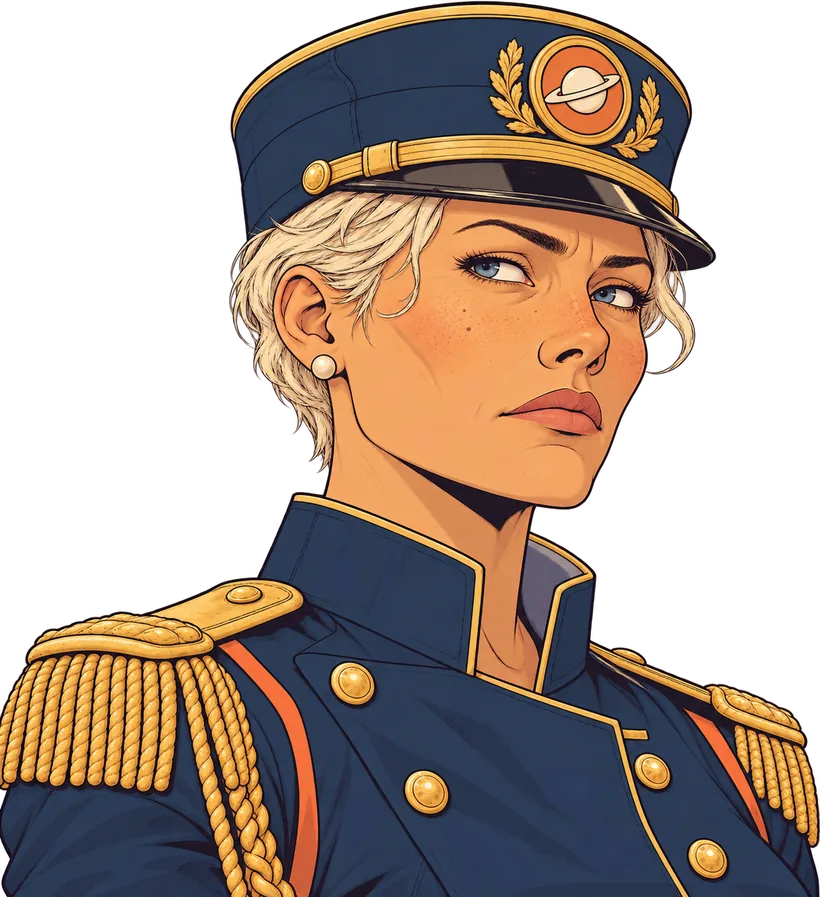
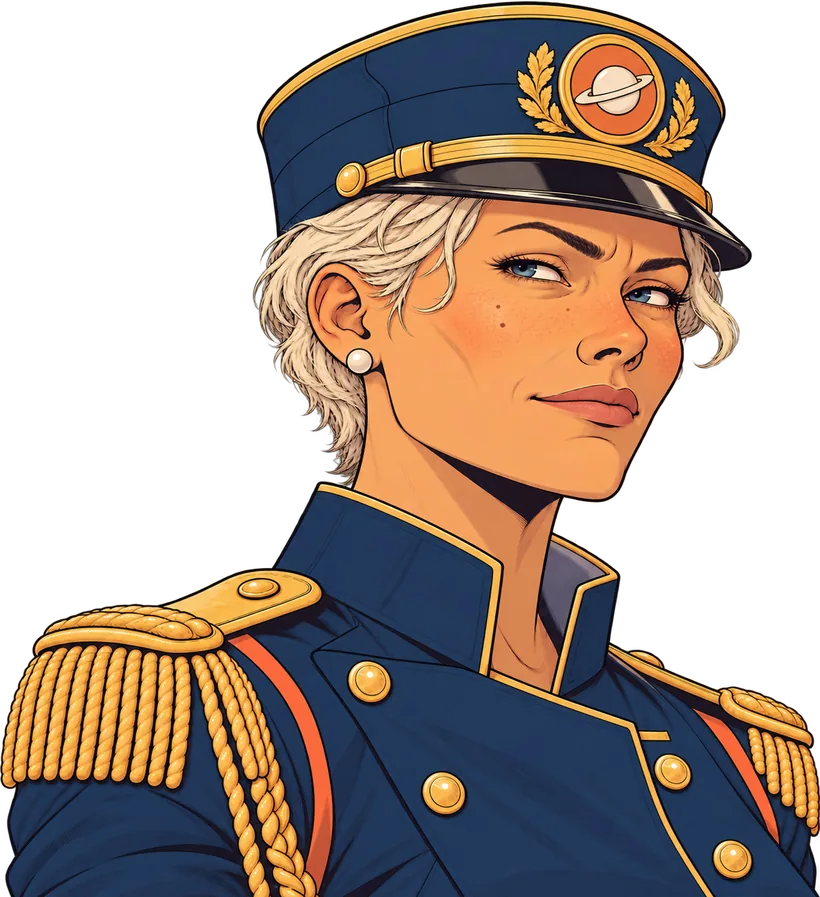
Portraits : la joie de Nadia Orlov refaite (un demi-sourire)
Claude-Session: https://claude.ai/code/session_01F6ocbpycmQ7YQZPxUJPY13

diff --git a/docs/portraits-prompts.md b/docs/portraits-prompts.md
@@ -158,8 +158,7 @@ Un décor par lieu de PNJ, derrière le portrait, dans la case du dialogue (envi
 - **Odile Varenne** (24/10/2026) : les trois humeurs.
 - **Aurelio Benedetti** (24/10/2026) : les trois humeurs ; le neutre, arrivé dans un autre format, recalé sur les deux
   autres (même canevas, même échelle).
-- **Nadia Orlov** (24/10/2026) : trois images presque identiques ; la plus fâchée sert au souci, la plus douce à la
-  joie (aucune ne sourit vraiment : à refaire si la joie ne se voit pas).
+- **Nadia Orlov** (24/10/2026) : les trois humeurs (la joie refaite : un demi-sourire en coin).
 
 ## Ce qu'il faut envoyer à Claude
 
